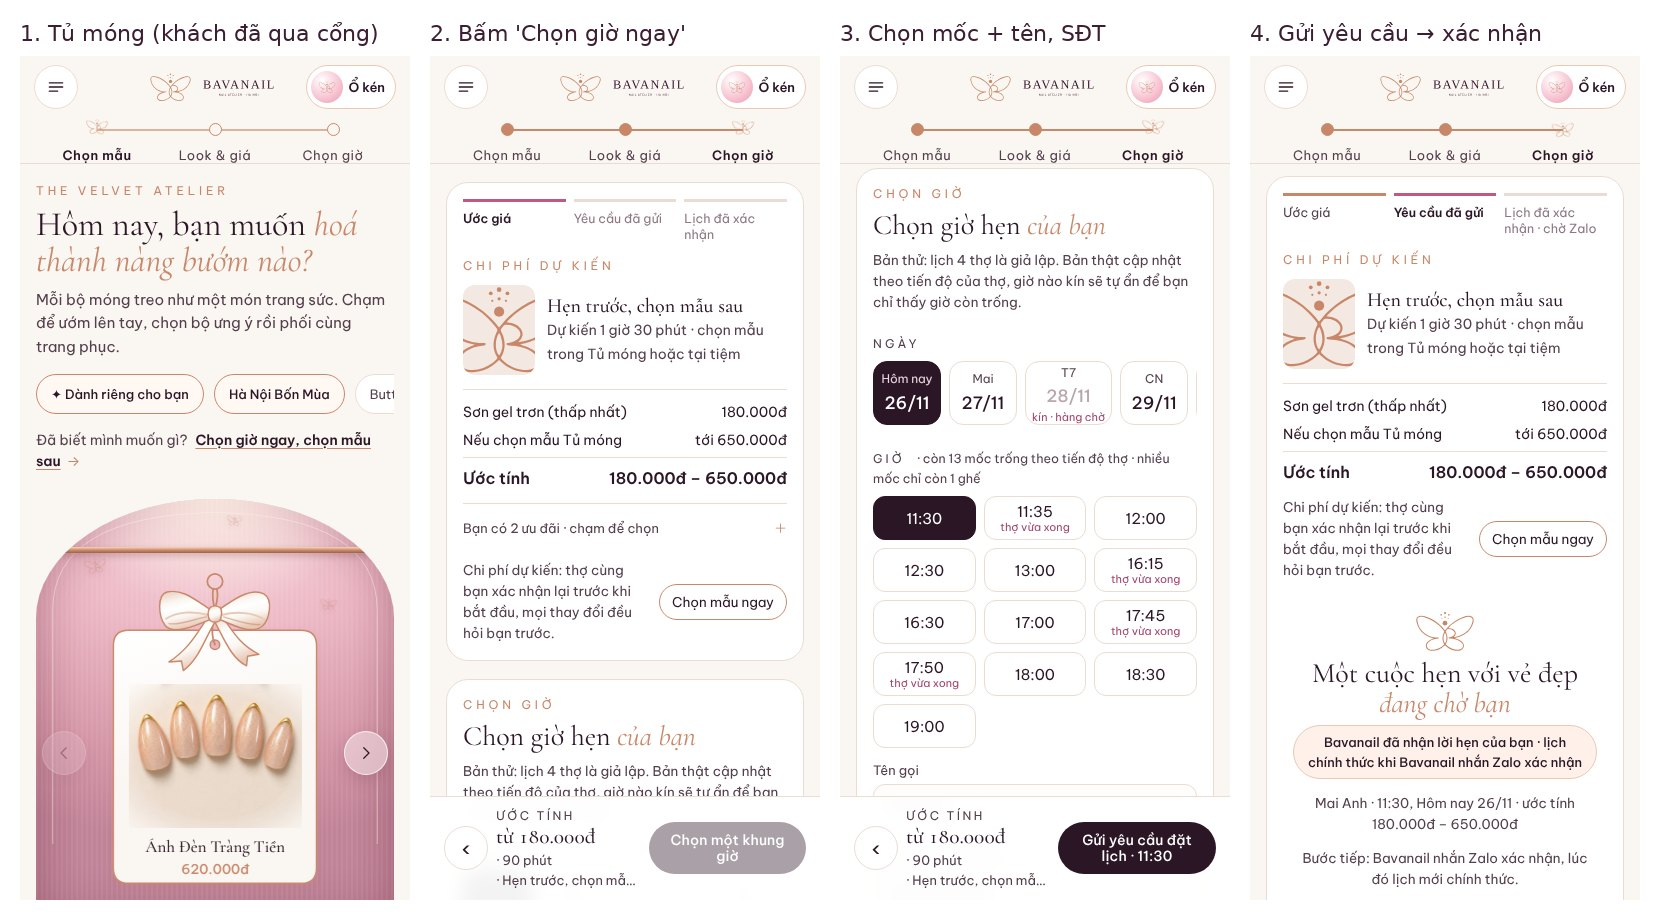
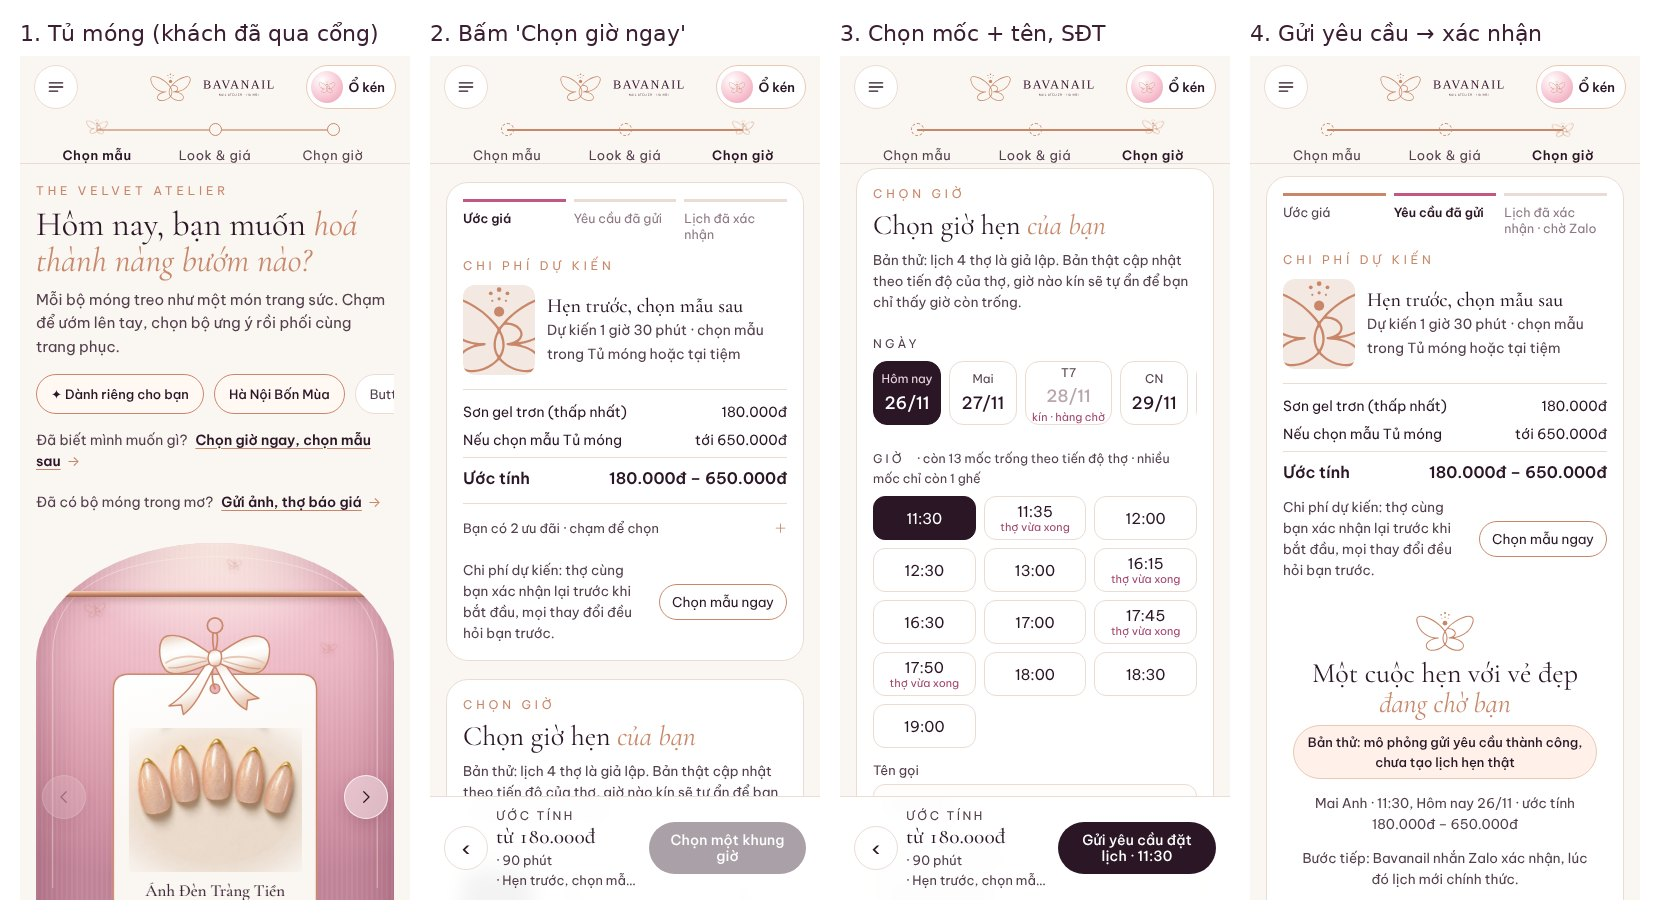
BAVANAIL v2 · vòng 2 nghiệm thu: lối Bộ móng trong mơ, bản thử nói rõ, bước bỏ qua
Claude-Session: https://claude.ai/code/session_01U1JhvWvNG49PD5n43PFM9f

Changed region(s): [[0.0, 0.5152, 0.2458, 1.0], [0.7988, 0.7879, 0.9524, 0.8485]]

diff --git a/v2/index.html b/v2/index.html
@@ -415,6 +415,9 @@ h1 em,h2 em{font-style:italic;color:var(--gold)}
 @media (max-width:900px){input,select,textarea{font-size:16px!important}}
 #gv{width:min(100vw,calc(100dvh*16/9))}
 .gtag{display:inline-block;margin-left:6px;padding:1px 8px;border-radius:999px;background:rgba(247,193,208,.22);color:#FFD9E3;font-style:normal;font-size:11.5px;font-weight:500;vertical-align:1px}.gtag.k{background:rgba(255,255,255,.1);color:#EBD7E0}
+#pin.quick{margin-top:0}
+.pest:empty{display:none}.pest .pmsg{margin:0;line-height:1.5}
+.st.skip{color:var(--ink2)}.st.skip .dot::before{border-style:dashed;background:transparent}
 </style>
 <script type="importmap">{"imports":{"three":"./a/3d/three.module.min.js"}}</script>
 </head>
@@ -458,6 +461,7 @@ h1 em,h2 em{font-style:italic;color:var(--gold)}
           <p class="note">Gợi ý tham khảo theo dáng móng và tông màu; thợ tư vấn lại khi bạn đến.</p>
         </div>
         <button class="quick" id="quick"></button>
+        <button class="quick" id="pin" aria-expanded="false" aria-controls="pinD"><span>Đã có bộ móng trong mơ?</span><b>Gửi ảnh, thợ báo giá</b><i>→</i></button>
       </div>
       <div class="niche">
         <svg class="arch" viewBox="0 0 100 100" preserveAspectRatio="none" fill="none" stroke="rgba(255,240,228,.55)" stroke-width=".25" stroke-linecap="round"><path d="M2 99V30Q2 2 50 1Q98 2 98 30V99"/></svg>
@@ -469,7 +473,6 @@ h1 em,h2 em{font-style:italic;color:var(--gold)}
       </div>
       <div class="under">
         <p class="mlab" id="mlab"></p>
-        <button class="ghost" id="pin" aria-expanded="false" aria-controls="pinD">＋ Đã có bộ móng trong mơ? Gửi ảnh, thợ báo giá</button>
       </div>
       <div class="lb">
         <p class="eyebrow">Lookbook</p>
@@ -518,7 +521,7 @@ h1 em,h2 em{font-style:italic;color:var(--gold)}
         <div class="rows num" id="rcRows"></div>
         <details class="code" id="codeBox"><summary id="codeSum">Có mã giảm / thẻ quà?</summary><div class="offers" id="offers" role="group" aria-label="Ưu đãi bạn dùng được"></div><div class="codeRow"><input id="codeIn" aria-label="Mã giảm hoặc thẻ quà" placeholder="Nhập mã" autocomplete="off" autocapitalize="characters"><button id="codeBtn">Áp dụng</button></div><p class="note" id="codeMsg">Thẻ quà hoặc mã khác thì nhập vào ô trên (bản thử: GIFT50). 1 mã mỗi phiếu, không cộng dồn.</p></details>
         <div style="display:flex;justify-content:space-between;align-items:center;margin-top:12px;gap:10px"><span class="note" style="margin:0" id="estNote">Chi phí dự kiến: thợ cùng bạn xác nhận lại trước khi bắt đầu, mọi thay đổi đều hỏi bạn trước.</span><button class="edit" id="edit">Sửa lựa chọn</button></div>
-        <div class="ok" id="ok"><img src="a/buom.svg" alt=""><h2 id="okH">Một cuộc hẹn với vẻ đẹp <em>đang chờ bạn</em></h2><p class="okst" id="okSt" role="status"></p><p class="note" id="okLine"></p><p class="note" id="okNext"></p><p class="note">Đây là bản thử: không có phiếu nào được gửi đi.</p><div class="dep" id="dep"><label for="depSel">Bạn đi từ quận nào? Bavanail tính giờ nên xuất phát</label><select id="depSel"></select><p class="note" id="depOut"></p></div><button class="cocinv" id="cocInv">Mở Ổ kén: xem hành trình hoá bướm của bạn ✦</button></div>
+        <div class="ok" id="ok"><img src="a/buom.svg" alt=""><h2 id="okH">Một cuộc hẹn với vẻ đẹp <em>đang chờ bạn</em></h2><p class="okst" id="okSt" role="status"></p><p class="note" id="okLine"></p><p class="note" id="okNext"></p><div class="dep" id="dep"><label for="depSel">Bạn đi từ quận nào? Bavanail tính giờ nên xuất phát</label><select id="depSel"></select><p class="note" id="depOut"></p></div><button class="cocinv" id="cocInv">Mở Ổ kén: xem hành trình hoá bướm của bạn ✦</button></div>
       </div>
     </div>
   </section>
@@ -897,7 +900,7 @@ function renderPin(){
   $$('#pDet .opt').forEach(function(b){b.onclick=function(){var i=+b.dataset.i,k=pd.d.indexOf(i);if(k>=0)pd.d.splice(k,1);else{pd.d.push(i);if(i<2){var o=1-i,ko=pd.d.indexOf(o);if(ko>=0)pd.d.splice(ko,1)}}pd.d.sort();chime(1244.5);renderPin()}});
   $$('#pLen .opt').forEach(function(b){b.onclick=function(){pd.t=+b.dataset.i;chime(1174.7);renderPin()}});
   var P=pinCalc(pd),e=$('#pEst'),g=$('#pinGo');
-  if(!P){e.innerHTML=pd.img?'<div><span>Bavanail xem ảnh, cùng bạn chọn cách làm phù hợp và báo chi phí dự kiến qua Zalo.</span></div>':'';g.disabled=!pd.img;g.textContent=pd.img?'Gửi ảnh, chọn giờ →':'Thêm ảnh mẫu để gửi thợ';return}
+  if(!P){e.innerHTML=pd.img?'<p class="pmsg">Bavanail xem ảnh, cùng bạn chọn cách làm phù hợp và báo chi phí dự kiến qua Zalo.</p>':'';g.disabled=!pd.img;g.textContent=pd.img?'Gửi ảnh, chọn giờ →':'Thêm ảnh mẫu để gửi thợ';return}
   e.innerHTML=pinRows(P)+'<div class="tot"><span>Khoảng giá · '+HM(P.m)+'</span><span>'+K(P.p)+' – '+K(P.hi)+'</span></div>';g.disabled=false;g.textContent='Chốt ước tính → Chọn giờ'}
 function openPin(){if(st.pin)pd=JSON.parse(JSON.stringify(st.pin));if(pd.b>=0)$('#pSelf').open=true;renderPin();openDr('pin');chime(1318.5)}
 $('#pin').onclick=openPin;
@@ -970,6 +973,7 @@ $('#z3d').onclick=function(e){e.stopPropagation();st.z3=!st.z3;st.h3=null;if(win
 $('#stage').addEventListener('click',function(e){if(e.target.classList&&e.target.classList.contains('c3d'))return;if(st.hs>=0&&!e.target.closest('.pop,.hsd')){st.hs=-1;drawHs()}});
 window.addEventListener('resize',function(){if(st.scr===1)drawHs()});
 function pickLook(i){st.look=i;st.hs=-1;st.h3=null;st.view='hand';chime(i<0?1046.5:1396.9);renderRoom()}
+var LIVE=false;
 var QUICK={n:'Hẹn trước, chọn mẫu sau',m:90,p:180};
 var CODES={BANMOI:{n:'Khách mới',v:50},BAVA10:{n:'Giảm 10%',pc:10},GIFT50:{n:'Thẻ quà 50.000đ',v:50}};
 function disc(p){var c=st.code&&CODES[st.code];if(!c)return 0;return Math.min(p,c.pc?Math.round(p*c.pc/100):c.v)}
@@ -1077,9 +1081,9 @@ function submit(){var md=bkMode();if(md==='late'){pickNear();return}if(md==='slo
   if(!nm){$('#nm').focus();alert0('Bạn cho Bavanail xin tên gọi nhé.');return}
   if(ph.length<9||ph.length>11){$('#ph').focus();alert0('Số điện thoại chưa đúng (9–11 số).');return}
   var T=totals(),pr=T.quick||T.pin?K(T.p)+' – '+K(T.pmax):K(T.p);st.ok=true;st.waited=md==='wait';
-  if(st.waited){$('#okH').innerHTML='Bavanail đã ghi tên bạn <em>vào hàng chờ</em>';$('#okSt').textContent='Trạng thái: đang trong hàng chờ · chưa có lịch';$('#okLine').textContent=nm+' · '+dayName(st.day)+' · khung '+WINS[st.win][0].toLowerCase()+' · ước tính '+pr;
+  if(st.waited){$('#okH').innerHTML='Bavanail đã ghi tên bạn <em>vào hàng chờ</em>';$('#okSt').textContent=LIVE?'Trạng thái: đang trong hàng chờ · chưa có lịch':'Bản thử: mô phỏng vào hàng chờ thành công, chưa tạo lịch hẹn thật';$('#okLine').textContent=nm+' · '+dayName(st.day)+' · khung '+WINS[st.win][0].toLowerCase()+' · ước tính '+pr;
     $('#okNext').textContent='Có ghế trống, Bavanail nhắn Zalo theo thứ tự; bạn có 15 phút để nhận chỗ.';$('#dep').hidden=true}
-  else{$('#okH').innerHTML='Một cuộc hẹn với vẻ đẹp <em>đang chờ bạn</em>';$('#okSt').textContent='Bavanail đã nhận lời hẹn của bạn · lịch chính thức khi Bavanail nhắn Zalo xác nhận';$('#okLine').textContent=nm+' · '+st.slot+', '+dayName(st.day)+' · ước tính '+pr;
+  else{$('#okH').innerHTML='Một cuộc hẹn với vẻ đẹp <em>đang chờ bạn</em>';$('#okSt').textContent=LIVE?'Bavanail đã nhận lời hẹn của bạn · lịch chính thức khi Bavanail nhắn Zalo xác nhận':'Bản thử: mô phỏng gửi yêu cầu thành công, chưa tạo lịch hẹn thật';$('#okLine').textContent=nm+' · '+st.slot+', '+dayName(st.day)+' · ước tính '+pr;
     $('#okNext').textContent='Bước tiếp: Bavanail nhắn Zalo xác nhận, lúc đó lịch mới chính thức.';$('#dep').hidden=false;renderDep()}
   if(!T.quick&&!T.pin){try{localStorage.setItem('bvLast',JSON.stringify({set:st.set,tech:st.tech,add:st.add,look:st.look,nm:nm}))}catch(e){}renderQuick()}
   chime(1975.5);renderBook();renderBar();syncThread();var rb=$('#recapBox');if(rb.scrollIntoView)rb.scrollIntoView({block:'start',behavior:matchMedia('(prefers-reduced-motion:reduce)').matches?'auto':'smooth'})}
@@ -1091,7 +1095,8 @@ function renderQuick(){var q=$('#quick'),L=lastBk();
     q.onclick=function(){st.quick=true;st.pin=null;st.set=null;st.tech=null;st.add=[false,false];st.look=-1;go(2)}}}
 function syncThread(){var done=[!!st.set||!!st.quick||!!st.pin, st.quick||st.pin?st.scr===2:(st.scr>=1&&!!st.set&&(st.tech!=null||st.scr===2)), st.ok];
   var n=done[0]?(done[1]?(done[2]?3:2):1):0;$('#thread').style.setProperty('--p',Math.min(1,n/2));
-  $$('.st').forEach(function(b,i){b.classList.toggle('here',st.scr===i);b.classList.toggle('done',done[i]);if(st.scr===i)b.setAttribute('aria-current','step');else b.removeAttribute('aria-current')})}
+  var skip=[!!st.quick, !!st.quick||!!(st.pin&&st.pin.b<0), false];
+  $$('.st').forEach(function(b,i){b.classList.toggle('here',st.scr===i);b.classList.toggle('done',done[i]&&!skip[i]);b.classList.toggle('skip',skip[i]&&st.scr!==i);if(skip[i])b.setAttribute('title','Đã bỏ qua');else b.removeAttribute('title');if(st.scr===i)b.setAttribute('aria-current','step');else b.removeAttribute('aria-current')})}
 function go(i,noPush){if(i===1&&st.quick)st.quick=false;if(i===1&&st.pin)st.pin=null;if(i>0&&!st.set&&!st.quick&&!st.pin){st.set=SETS[0].id}
   if(i!==1&&window.BV3D&&BV3D.ready)BV3D.show(false);
   st.scr=i;$$('.scr').forEach(function(s,k){s.classList.toggle('on',k===i);if(k===i)s.scrollTop=0});
